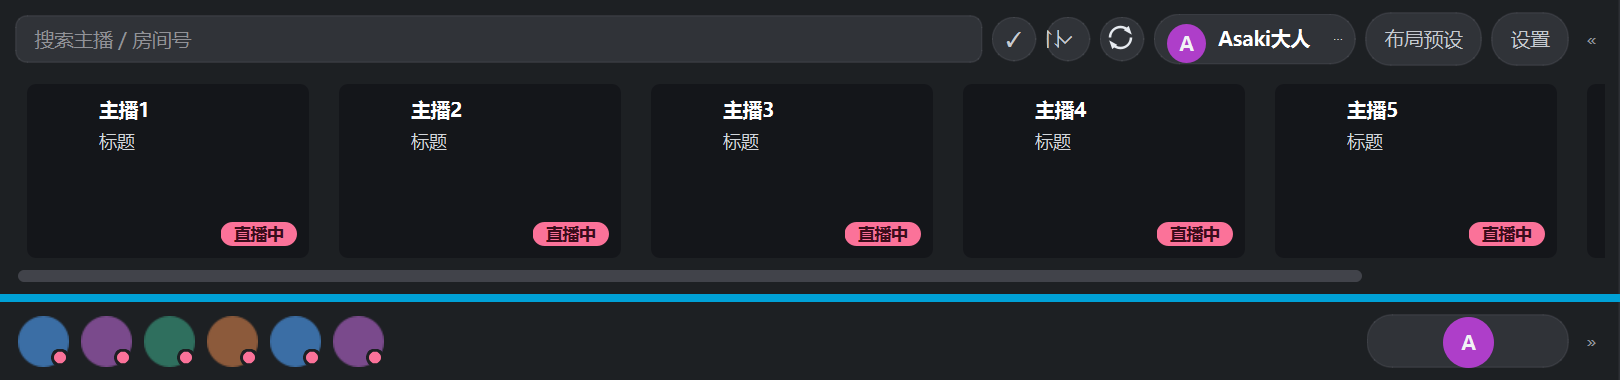
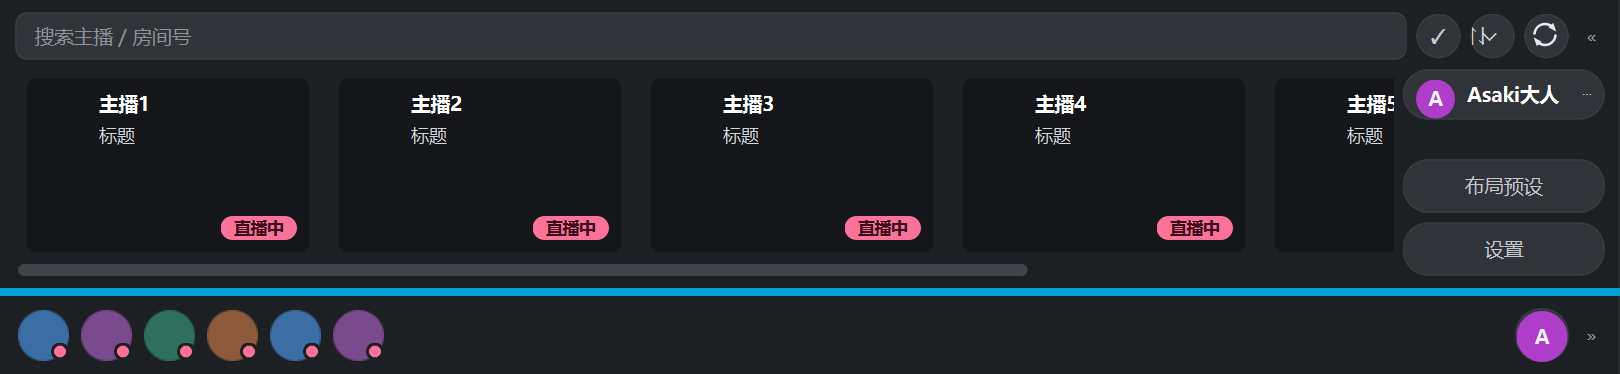
feat(portrait): 卡片条右侧单独一块放账号/布局预设/设置 + 收起态账号缩成小圆点
按用户对着实机截图的说明改：

- 展开态分两行。第一行：搜索框 + 多选/排序/刷新三个小图标 + 展开键（图标位置
  保持不变）。第二行：横向卡片条 + **右侧单独一块**（_bar_right），块里
  「账号 / 布局预设 / 设置」竖排（布局预设/设置靠 QBoxLayout 方向切换复用同一个
  tool_row，不新造控件）。卡片条相应变窄（1080 下 1060 → 928）。
- 收起态：右侧那一块整块收掉，账号头像回到第一行最右端，并把宽度按头像算
  （36x36 小圆点）—— 之前它沿用昵称宽度，收起来是一条长胶囊（用户报的
  「不需要那么大的按钮，保持和横屏一样的小圆点」）。
- 横栏高度 196 → 192px（第一行不再放账号条，行高由搜索框决定）。
- 横屏不受影响：回左栏时 tool_row 布局方向还原成横排、账号条最小宽度清零、
  两行容器隐藏，自检第 9 组继续钉住那几条。

自检第 12b 组重写：第一行三个图标在搜索框右侧、第二行卡片条右侧那一块里
账号/布局预设/设置竖排且左边对齐、收起后账号是 36x36 小圆点。

diff --git a/ddm/widgets.py b/ddm/widgets.py
@@ -14,9 +14,9 @@ from PySide6.QtGui import (
     QMovie, QPainter, QPainterPath, QPen, QPixmap, QPolygonF, QRegion, QTextDocument,
 )
 from PySide6.QtWidgets import (
-    QApplication, QCheckBox, QFrame, QGridLayout, QHBoxLayout, QLabel, QLineEdit, QMenu,
-    QPushButton, QScrollArea, QSizePolicy, QSlider, QTextBrowser, QToolButton, QVBoxLayout,
-    QWidget, QWidgetAction,
+    QApplication, QBoxLayout, QCheckBox, QFrame, QGridLayout, QHBoxLayout, QLabel,
+    QLineEdit, QMenu, QPushButton, QScrollArea, QSizePolicy, QSlider, QTextBrowser,
+    QToolButton, QVBoxLayout, QWidget, QWidgetAction,
 )
 
 from . import layouts, theme
@@ -2845,24 +2845,55 @@ class Sidebar(QFrame):
 
     # ---- 横栏那一行 ----
     def _detach_from_rows(self, widget: QWidget) -> None:
-        """把控件从「竖排布局」和「横栏那一行」里都摘出来。"""
-        for holder in (self._layout, self._bar_row_box):
+        """把控件从「竖排布局」和横栏那几个容器里都摘出来。"""
+        for holder in (self._layout, self._bar_row_box, self._bar_row2_box,
+                       self._bar_right_box):
             if holder is not None:
                 holder.removeWidget(widget)
 
     def _ensure_bar_row(self) -> None:
-        if self._bar_row is None:
-            self._bar_row = QWidget(self)
-            box = QHBoxLayout(self._bar_row)
-            box.setContentsMargins(0, 0, 0, 0)
-            box.setSpacing(6)
-            self._bar_row_box = box
+        """建出横栏的两行容器（只建一次）。
+
+        第一行：搜索框（收起时换成头像排）+ 多选/排序/刷新小图标 + 展开键。
+        第二行：横向卡片条 + 右侧单独一块（账号 / 布局预设 / 设置 竖排）。
+        """
+        if self._bar_row is not None:
+            return
+        self._bar_row = QWidget(self)
+        box = QHBoxLayout(self._bar_row)
+        box.setContentsMargins(0, 0, 0, 0)
+        box.setSpacing(6)
+        self._bar_row_box = box
+        self._bar_row2 = QWidget(self)
+        box2 = QHBoxLayout(self._bar_row2)
+        box2.setContentsMargins(0, 0, 0, 0)
+        box2.setSpacing(6)
+        self._bar_row2_box = box2
+        self._bar_right = QWidget(self._bar_row2)
+        right = QVBoxLayout(self._bar_right)
+        right.setContentsMargins(0, 0, 0, 0)
+        right.setSpacing(6)
+        right.addStretch(1)                    # 三个按钮按自然高度贴顶排
+        self._bar_right_box = right
 
     def _bar_widgets(self) -> list:
-        """要挤进横栏这一行的控件：搜索框/头像排 + 图标 + 右边那一块。"""
+        """竖屏时会被横栏借走的控件（横屏要按原样挂回去）。"""
         return [self.search, self._head_scroll, self.batch_button, self.sort_button,
                 self.refresh_button, self.account_row, self.tool_row,
                 self.toggle_button]
+
+    def _place_account(self, in_right_block: bool) -> None:
+        """账号头像的位置：展开时在卡片条右侧那一块，收起时回到第一行最右端。"""
+        wanted = self._bar_right if in_right_block else self._bar_row
+        if self.account_row.parentWidget() is wanted:
+            return
+        self._detach_from_rows(self.account_row)
+        self.account_row.setParent(wanted)
+        if in_right_block:
+            self._bar_right_box.insertWidget(0, self.account_row)
+        else:
+            self._bar_row_box.insertWidget(self._bar_row_box.count() - 1,
+                                           self.account_row)
 
     def _bar_icons(self) -> tuple:
         """横栏里当小图标用的三个按钮（横屏时它们各有各的文字位置）。"""
@@ -2913,40 +2944,57 @@ class Sidebar(QFrame):
         self._sync_bar_icons()
 
     def _adopt_bar_row(self) -> None:
-        """竖屏：把搜索框（或头像排）、图标和右上那一块并成**同一行**。
+        """竖屏：把横栏排成两行。
 
-        这一行从左到右是：搜索框（收起时换成头排）、多选 / 排序 / 刷新三个小图标、
-        账号头像、布局预设、设置、展开/收起键。原来是好几行竖着堆在横栏下面
-        （多选 / 布局预设 / ⋯ / 导入关注 + 添加直播间），横栏因此高到 362px。
+        第一行：搜索框（收起时换成头排）+ 多选/排序/刷新三个小图标 + 展开/收起键。
+        第二行：横向卡片条 + 右侧单独一块，那块里「账号 / 布局预设 / 设置」竖排
+        （用户要求：在最后一张卡片右边单独开一块地放这几个按钮）。
         """
         self._ensure_bar_row()
         if not self._bar_in_use:
             index = self._layout.indexOf(self._header_row)
-            for widget in self._bar_widgets():
+            for widget in (self.search, self._head_scroll, self.batch_button,
+                           self.sort_button, self.refresh_button, self.toggle_button):
                 self._detach_from_rows(widget)
                 widget.setParent(self._bar_row)
             # 搜索框和头像排轮流坐左边（收起时显示头像排），谁在就由谁撑满
             self._bar_row_box.addWidget(self.search, 1)
             self._bar_row_box.addWidget(self._head_scroll, 1)
-            for widget in self._bar_icons() + (self.account_row, self.tool_row,
-                                               self.toggle_button):
+            for widget in self._bar_icons() + (self.toggle_button,):
                 self._bar_row_box.addWidget(widget)
+
+            self._detach_from_rows(self.scroll)
+            self._detach_from_rows(self.tool_row)
+            self.scroll.setParent(self._bar_row2)
+            self._bar_row2_box.addWidget(self.scroll, 1)
+            self._bar_row2_box.addWidget(self._bar_right)
+            self._bar_right_box.insertWidget(1, self.tool_row)
+            # 布局预设 / 设置从横排改成竖排
+            self.tool_row.layout().setDirection(QBoxLayout.TopToBottom)
+            self.tool_row.layout().setStretch(0, 0)
+            self._place_account(True)
+
             self._layout.insertWidget(index + 1 if index >= 0 else 1, self._bar_row)
+            self._layout.insertWidget(index + 2 if index >= 0 else 2, self._bar_row2)
             self._bar_in_use = True
             self._sync_bar_icons()
         self._bar_row.setVisible(True)
 
     def _release_bar_row(self) -> None:
-        """回左栏：把那一行拆掉，控件按 __init__ 里的原始顺序挂回竖排布局。"""
+        """回左栏：把这两行拆掉，控件按 __init__ 里的原始顺序挂回竖排布局。"""
         if not self._bar_in_use:
             return
-        self._layout.removeWidget(self._bar_row)
-        self._bar_row.setVisible(False)
-        for widget in self._bar_widgets():
+        for row in (self._bar_row, self._bar_row2):
+            self._layout.removeWidget(row)
+            row.setVisible(False)
+        for widget in self._bar_widgets() + [self.scroll]:
             self._detach_from_rows(widget)
         for widget in self._column_order:
             self._detach_from_rows(widget)
             self._layout.addWidget(widget)
+        # 布局预设 / 设置回到横排一行
+        self.tool_row.layout().setDirection(QBoxLayout.LeftToRight)
+        self.tool_row.layout().setStretch(0, 1)
         self._bar_in_use = False
         self._sync_account_row_width()          # 左栏的账号条恢复撑满
 
@@ -2971,14 +3019,18 @@ class Sidebar(QFrame):
             self.account_row.set_compact(self.collapsed)
 
     def _sync_account_row_width(self) -> None:
-        """横栏里的账号条要放得下昵称，否则会被挤成「A…」。
+        """横栏里的账号条宽度。
 
-        横屏时它本来就撑满侧栏，不需要这个宽度限制；竖屏横栏里它是自然宽度
-        （名字的 size policy 是 Ignored，不点名就给一个头像的宽度）。
+        展开时放得下昵称（否则会被挤成「A…」）；收起时它就是一个和头排头像
+        一样大的小圆点 —— 不这么算的话它会一直沿用昵称的宽度，变成一条长胶囊。
+        横屏时它本来就撑满侧栏，不需要这个限制。
         """
         row = self.account_row
         if self.side != "top":
             row.setMinimumWidth(0)
+            return
+        if self.collapsed:
+            row.setMinimumWidth(row.avatar.width() + 2)
             return
         box = row._layout
         margins = box.contentsMargins()
@@ -2998,8 +3050,8 @@ class Sidebar(QFrame):
         if self.side != "top":
             return
         self._adopt_bar_row()
-        self._sync_account_row_width()
         self._sync_account_row_shape()
+        self._sync_account_row_width()
         header = getattr(self, "_header_row", None)
         toggle = getattr(self, "toggle_button", None)
         # 展开时收起头排（用户要求展开后不显示头像排，那点高度留给卡片）；
@@ -3007,6 +3059,10 @@ class Sidebar(QFrame):
         self._head_scroll.setVisible(self.collapsed)
         if self.collapsed:
             self._head_strip.rebuild()
+        # 账号头像：展开时在卡片条右边那一块里，收起时回到第一行最右端
+        self._place_account(not self.collapsed)
+        self._bar_right.setVisible(not self.collapsed)
+        self._bar_row2.setVisible(not self.collapsed)
         if toggle is not None:
             # 摘到横栏这一行的右端常驻；换成紧凑样式，
             # 否则标题行那套 24px 最小尺寸 + padding 会把横栏撑高一截

diff --git a/dev/selfcheck_portrait.py b/dev/selfcheck_portrait.py
@@ -462,57 +462,68 @@ def part_strip_interaction(app) -> None:
         "横向和竖向滚动条的滑块要用同一种颜色（各一处）"
     assert hbar.height() <= 10, f"横向滚动条没走主题样式，实际 {hbar.height()}px"
 
-    print("\n=== 12b. 横栏一行：图标 + 账号头像 + 布局预设 + 设置 并排 ===")
+    print("\n=== 12b. 横栏两行：图标在第一行，卡片右边单独一块放账号/布局预设/设置 ===")
     account = sidebar.account_row
     icons = [sidebar.batch_button, sidebar.sort_button, sidebar.refresh_button]
-    right = [account, sidebar.tool_row, sidebar.settings_button]
-    row_widgets = icons + right
-    centers = [widget.y() + widget.height() / 2 for widget in row_widgets]
-    print(f"  账号条 {account.width()}x{account.height()} @x={account.x()} "
-          f"图标 x={[w.x() for w in icons]} 布局预设 x={sidebar.tool_row.x()} "
-          f"展开键 x={sidebar.toggle_button.x()} 搜索框右边缘="
-          f"{sidebar.search.x() + sidebar.search.width()}")
-    assert account.isVisible() and account.avatar.isVisible(), \
-        "展开态横栏右侧要有账号头像（用户要求，和横屏一致）"
-    assert account.name.isVisible(), "横栏里的账号条要露出昵称，不是只剩一个头像"
-    assert len({widget.parentWidget() for widget in icons + [account, sidebar.tool_row]}) == 1, \
-        "图标、账号头像和工具行必须在同一个容器里（设置按钮在工具行里面）"
-    assert sidebar.settings_button.parentWidget() is sidebar.tool_row, \
-        "设置和布局预设并排在同一个工具行里"
-    assert max(centers) - min(centers) <= 4, f"这些控件要并排同一行：{centers}"
-    assert account.x() >= sidebar.search.x() + sidebar.search.width(), \
-        "账号头像那一块要在搜索框右边（右侧划出来的一块）"
-    assert sidebar.toggle_button.x() > sidebar.tool_row.x(), "展开/收起键在最右端"
-    # 用户要求：多选从最上方下移到和搜索同高度，和排序/刷新一起做成小图标按钮
+    block = sidebar._bar_right
+    stacked = [account, sidebar.tool_row]
+    print(f"  第一行：图标 x={[w.x() for w in icons]} 搜索框右边缘="
+          f"{sidebar.search.x() + sidebar.search.width()} 展开键 x="
+          f"{sidebar.toggle_button.x()}")
+    print(f"  第二行：卡片条 {sidebar.scroll.width()}x{sidebar.scroll.height()} "
+          f"右侧一块 x={block.x()} 宽={block.width()}；账号条 "
+          f"{account.width()}x{account.height()} @y={account.y()} "
+          f"布局预设/设置 x={sidebar.layout_button.x()} y="
+          f"{sidebar.layout_button.y()}/{sidebar.settings_button.y()}")
+    # 用户要求：多选这些图标留在搜索框旁边
     assert all(button.isVisible() for button in icons), "三个小图标都要露出来"
     assert min(button.x() for button in icons) > sidebar.search.x(), "图标在搜索框右边"
+    assert all(button.parentWidget() is sidebar._bar_row for button in icons + [
+        sidebar.toggle_button]), "图标和展开键在第一行"
     assert sidebar._header_row.isVisible() is False, \
-        "多选搬下来之后，标题行整行收掉（横栏只有一行）"
+        "多选搬下来之后，标题行整行收掉（横栏只有一行放搜索）"
     print(f"  图标文字：多选={sidebar.batch_button.text()!r} "
           f"排序={sidebar.sort_button.text()!r} 尺寸="
           f"{sidebar.batch_button.width()}x{sidebar.batch_button.height()}")
     assert sidebar.batch_button.text() != "多选" and sidebar.sort_button.text() != "排序", \
         "横栏里这三个是图标按钮，不是文字按钮"
-    # 「⋯」整个去掉了：导入关注 / 添加直播间 收进账号菜单，设置和布局预设摆在横栏上
+    # 用户要求：最后一张卡片右边单独开一块，账号 / 布局预设 / 设置 竖排
+    assert block.isVisible() and block.parentWidget() is sidebar._bar_row2, \
+        "右侧那一块要和卡片条在同一行"
+    assert block.x() >= sidebar.scroll.x() + sidebar.scroll.width(), \
+        "这一块要在卡片条的右边"
+    assert account.parentWidget() is block and sidebar.tool_row.parentWidget() is block, \
+        "账号和工具行都要放进这一块"
+    assert account.y() + account.height() <= sidebar.tool_row.y(), \
+        f"账号要在布局预设上面（竖排）：账号 y={account.y()} 工具行 y={sidebar.tool_row.y()}"
+    assert sidebar.settings_button.y() > sidebar.layout_button.y(), \
+        "布局预设和设置也要竖排（设置在下）"
+    assert abs(sidebar.settings_button.x() - sidebar.layout_button.x()) <= 2, \
+        "竖排时两个按钮左边对齐"
+    # 「⋯」整个去掉了：导入关注 / 添加直播间 收进账号菜单
     labels = [action.text() for action in sidebar.account_menu().actions() if action.text()]
     print(f"  账号菜单里装着：{labels}")
     assert not hasattr(sidebar, "tool_row_more"), "「更多」按钮已经去掉"
     assert not sidebar.normal_bar.isVisible(), "导入/添加收进账号菜单，不该再占一行"
     assert "导入关注…" in labels and "+ 添加直播间…" in labels, labels
-    assert sidebar.tool_row.isVisible() and sidebar.settings_button.isVisible(), \
-        "布局预设 + 设置要并排摆在横栏右侧"
-    assert "设置…" not in labels, "设置已经摆在横栏上，展开态菜单里不用再来一份"
+    assert "设置…" not in labels, "设置已经摆在右侧那一块上，展开态菜单里不用再来一份"
 
     sidebar.set_collapsed(True, animate=False)
     settle(app, 0.3)
     assert not sidebar.search.isVisible(), "收起后搜索框要收掉"
     assert strip.isVisible(), "收起后头排要回来"
-    # 账号头像现在收起/展开都在横栏最右侧那一块（用户要求从左边挪走），
-    # 而且收起时缩成和头排头像一样大
+    # 收起时账号头像回到第一行最右端，并且缩成和头排头像一样大的小圆点
+    # （用户报的「不需要那么大的按钮 / 保持和横屏一样的小圆点」）
     assert account.isVisible() and account.avatar.isVisible(), \
         "收起后账号头像仍要在横栏右侧（账号菜单只有这一个入口）"
+    assert account.parentWidget() is sidebar._bar_row, "收起时账号要回到头像排那一行"
     assert account.avatar.width() == strip.AVATAR, \
         f"收起时账号头像要和头排头像同尺寸，实际 {account.avatar.width()}"
+    print(f"  收起态账号按钮 {account.width()}x{account.height()}（头排头像 "
+          f"{strip.AVATAR}x{strip.AVATAR}）")
+    assert abs(account.width() - account.height()) <= 6, \
+        f"收起时账号按钮应该是个小圆点，不是长胶囊：{account.width()}x{account.height()}"
+    assert not sidebar._bar_right.isVisible(), "收起时右侧那一块整块收掉"
 
     print("\n=== 13. 切布局不动窗口方向（摆放跟着窗口形状走）===")
     window.resize(1600, 900)
